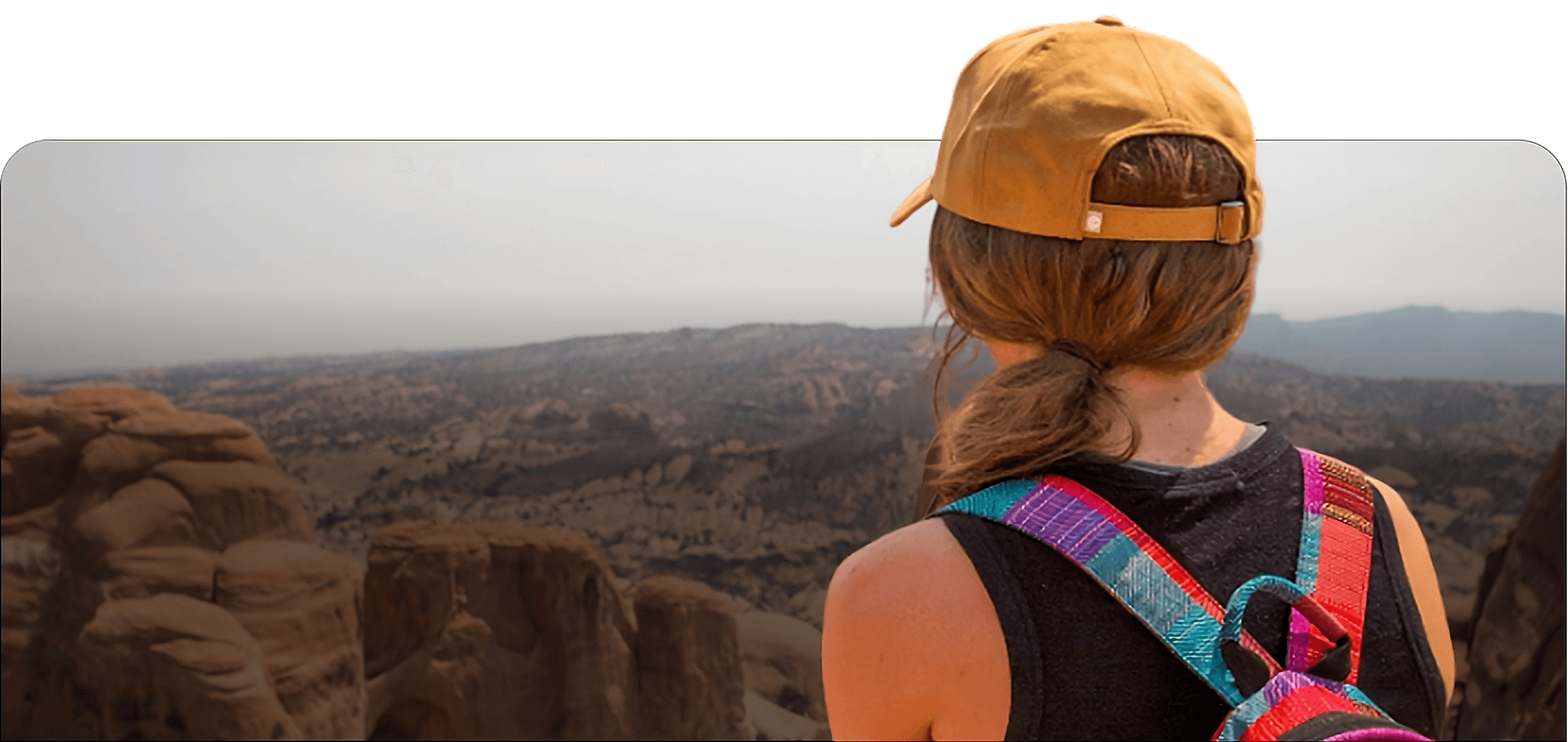
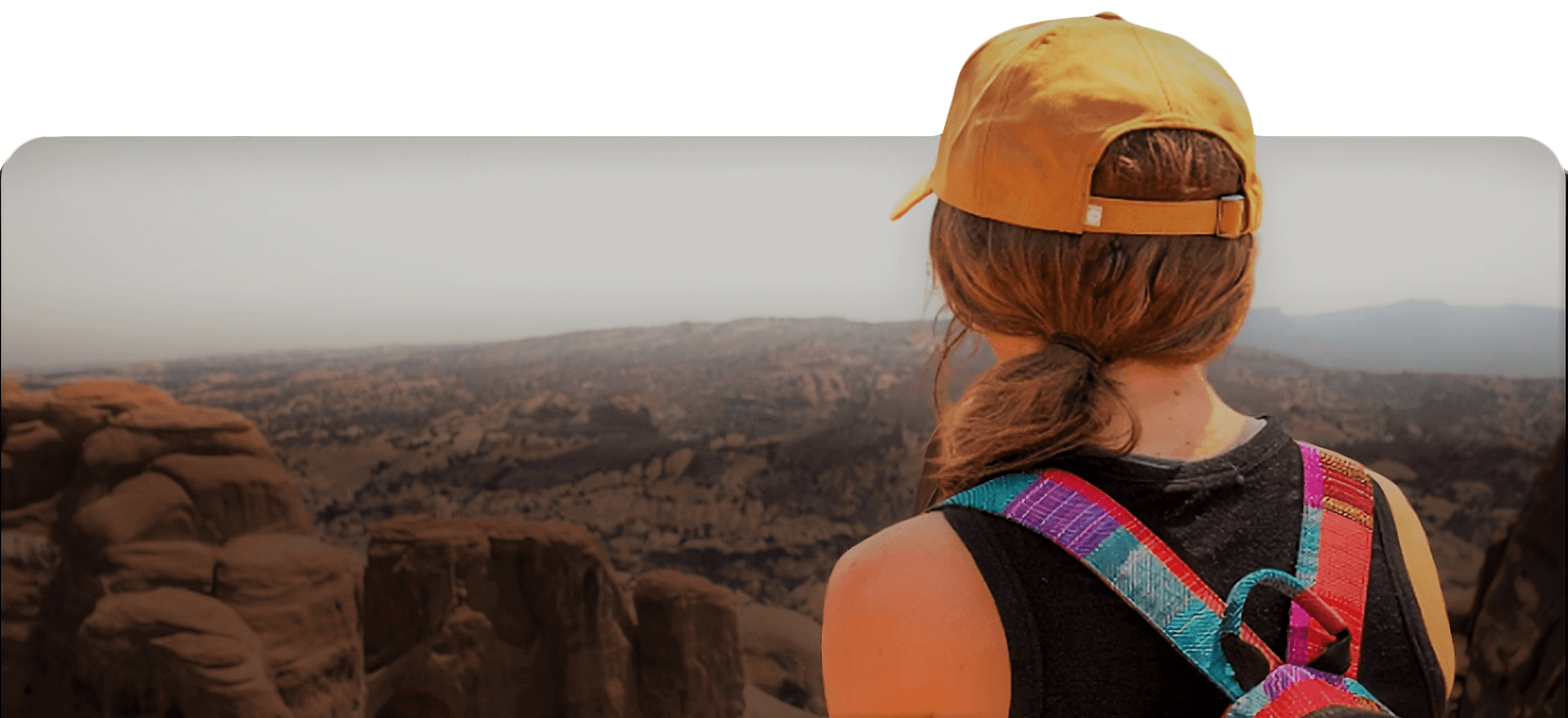
tw-0522-17:47

diff --git a/src/styles/ExploreStyle.css b/src/styles/ExploreStyle.css
@@ -77,6 +77,8 @@
   overflow: hidden;
   text-overflow: ellipsis;
   margin: 0;
+  max-width: 90%; /* ← 避免過長超出 */
+  margin-inline: auto;
 }
 
 .explore-style-card p {
@@ -386,7 +388,8 @@ display: flex; /* or grid */
   position: absolute;
   width: 180%;
   height: 180%;
-  background: linear-gradient(to bottom right, #7395A6 70%, #5d7e91);
+  /* background: linear-gradient(to bottom right, #7395A6 70%, #5d7e91); */
+   background: linear-gradient(to bottom right, #000000 60%, #111111);
   z-index: 10000;
   transform-origin: center;
   box-shadow: 0 0 60px rgba(0, 0, 0, 0.05);
@@ -555,7 +558,7 @@ display: flex; /* or grid */
   background-size: cover;
   background-position: center;
   background-repeat: no-repeat;
-
+background-color: #000; /* ✅ 加強黑底穩定性 */
   /* ✅ 淡入動畫關鍵 */
   opacity: 0;
   /* transition: opacity 1.6s ease-in-out; */
@@ -795,6 +798,7 @@ display: flex; /* or grid */
   left: 0;
   width: 100vw;
   height: 100vh;
+   background-color: #000; /* ✅ 黑色底色補上 */
   background-size: cover;
   background-position: center;
   background-repeat: no-repeat;
@@ -1131,4 +1135,8 @@ display: flex; /* or grid */
 .explore-page-style .swiper-wrapper,
 .explore-page-style .swiper-slide {
   height: 100vh !important;
+}
+
+.explore-page-style .swiper-slide {
+  background-color: #000 !important;
 }

diff --git a/src/styles/MyTrip.css b/src/styles/MyTrip.css
@@ -196,7 +196,7 @@
   position: relative;
   display: grid !important;
   justify-content: space-between;
-  grid-template-columns: 3fr 1.2fr 1.2fr 1fr 0.6fr;
+  grid-template-columns: 3.2fr 1.2fr 1.2fr 1fr 0.6fr;
   align-items: center;
   padding: 10px 5px 10px 5px;
   border-bottom: 2px solid var(--primary-color);

diff --git a/src/styles/TravelStyles.css b/src/styles/TravelStyles.css
@@ -94,7 +94,7 @@
 }
 
 /* ✅ 強制清除 SwiperSlide 預設樣式，避免邊緣殘留 */
-.swiper-slide {
+.travel-style-slider .swiper-slide {
   width: 250px !important;
   min-width: 250px !important;
   max-width: 250px !important;

diff --git a/src/styles/About.css b/src/styles/About.css
@@ -64,7 +64,7 @@
 .about-text-overlay {
   position: absolute;
   top: 18%;
-  left: 32%;
+  left: 28%;
   width: 50%;
   max-width: 760px;
   padding: 40px;
